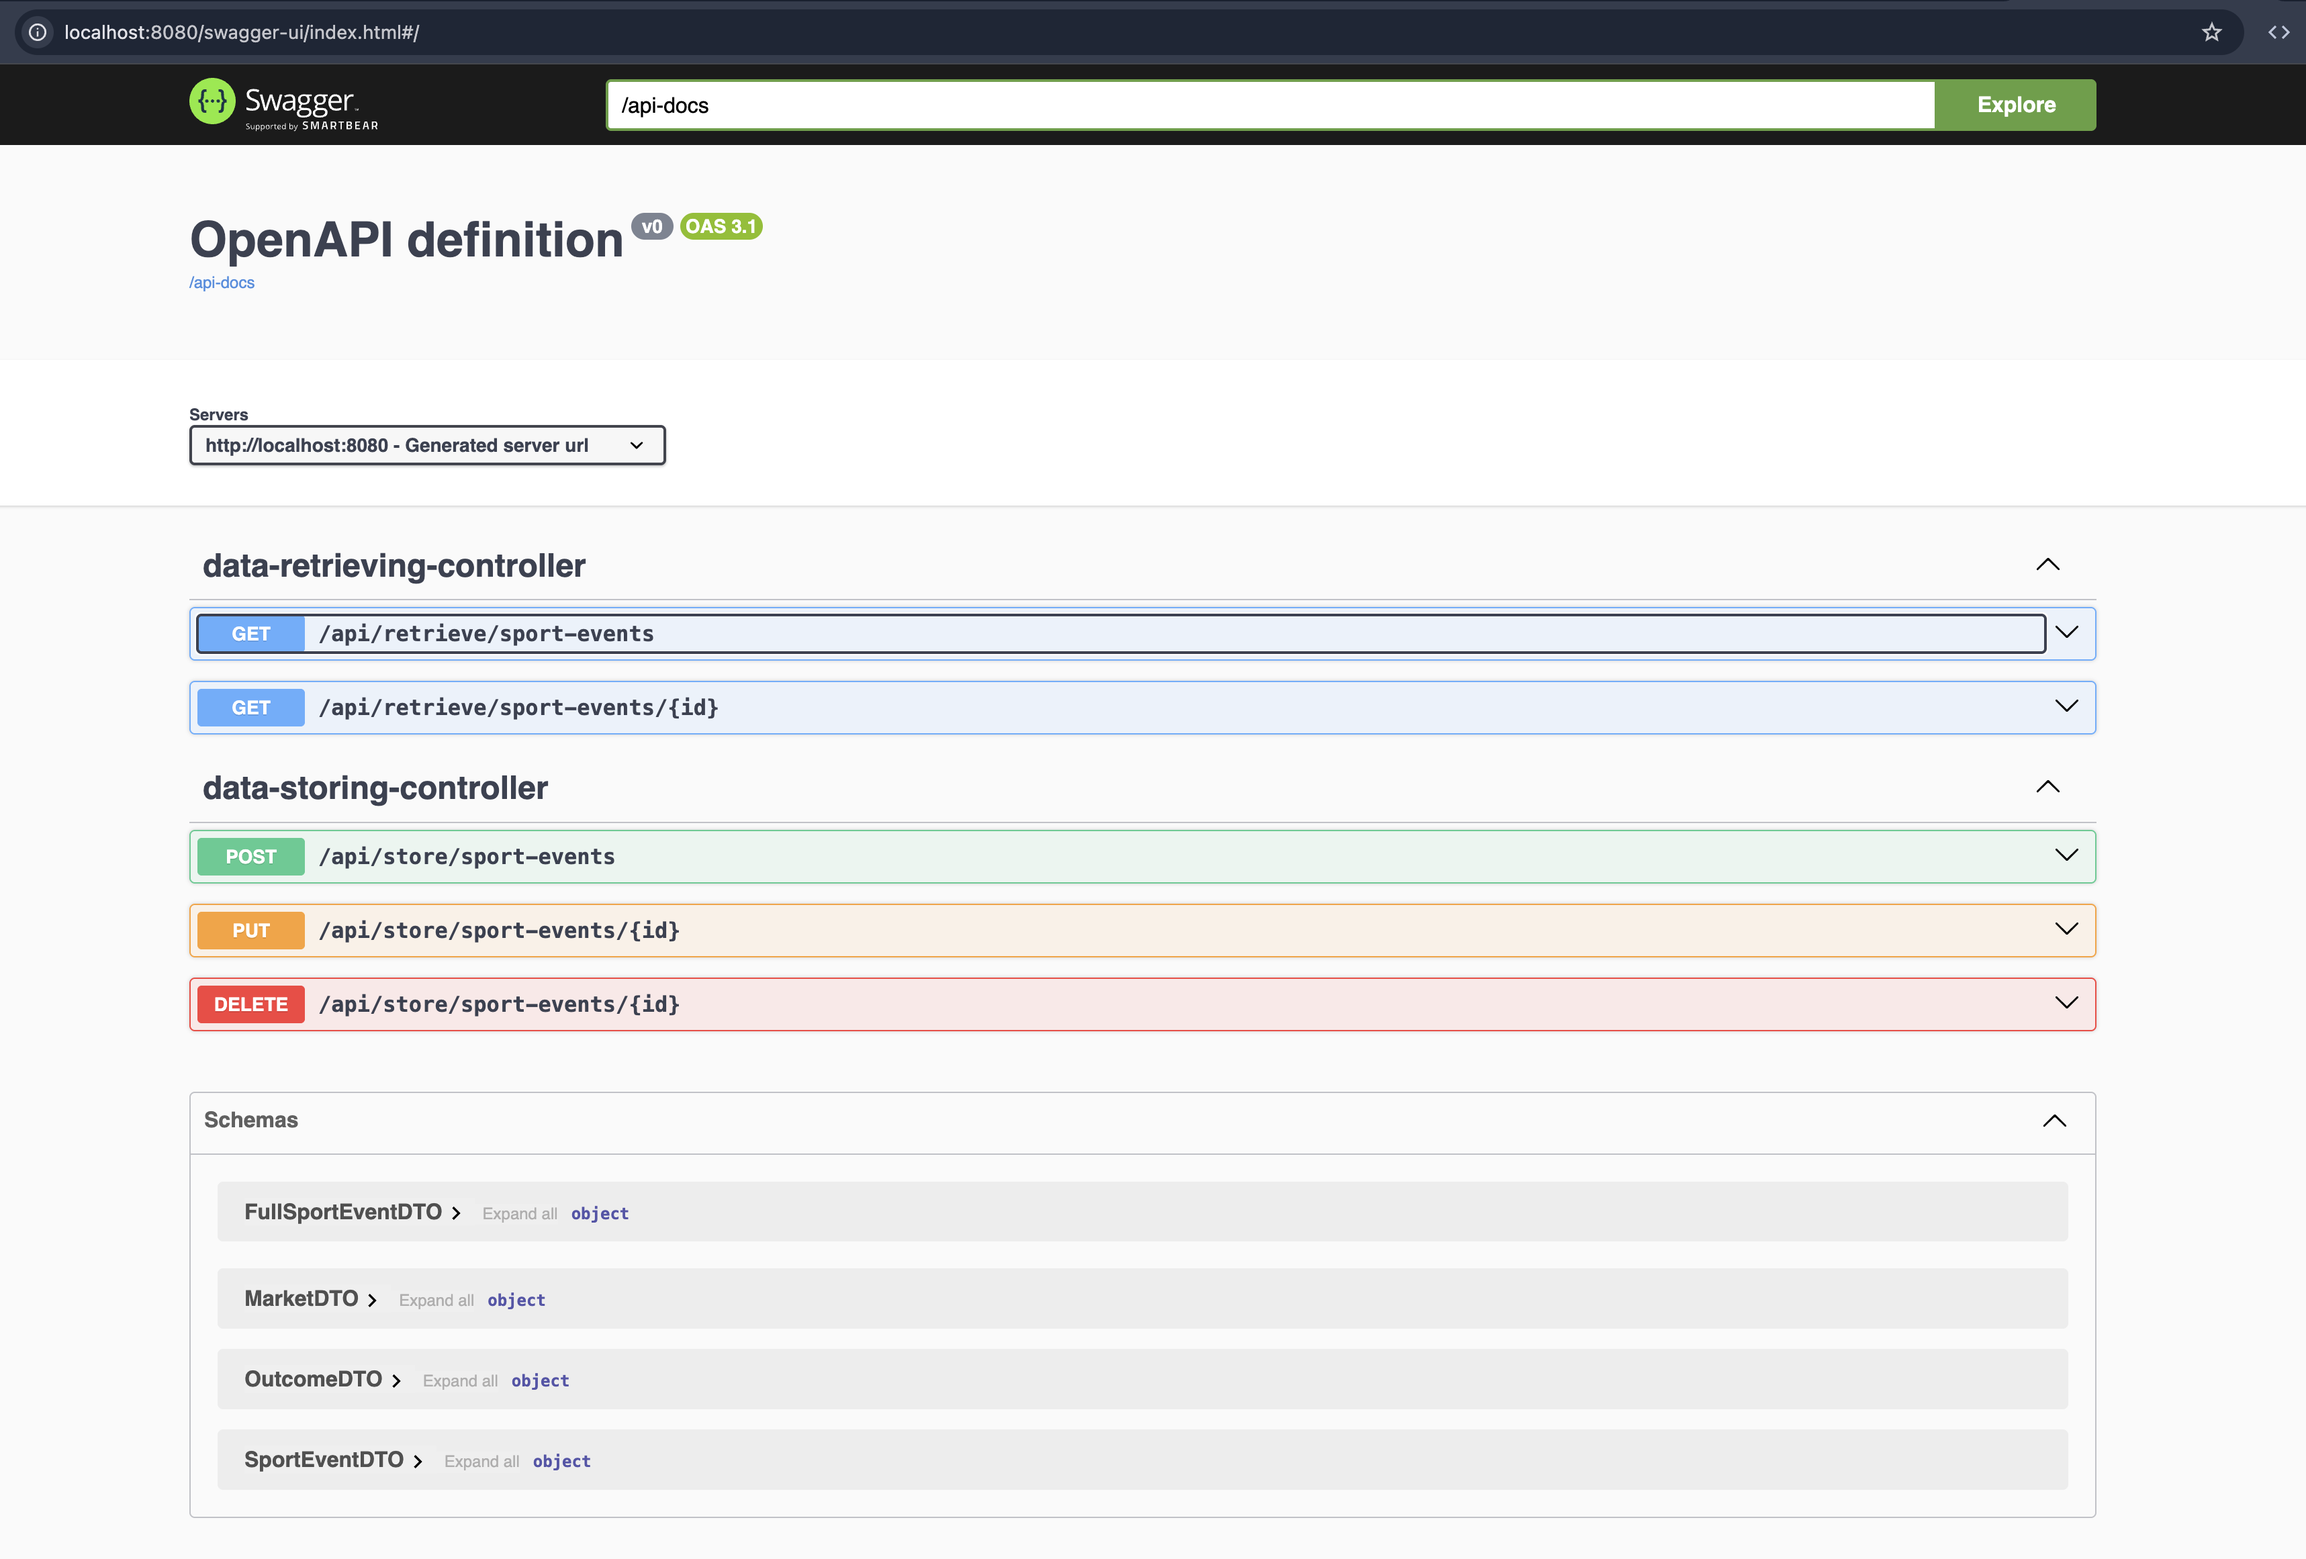
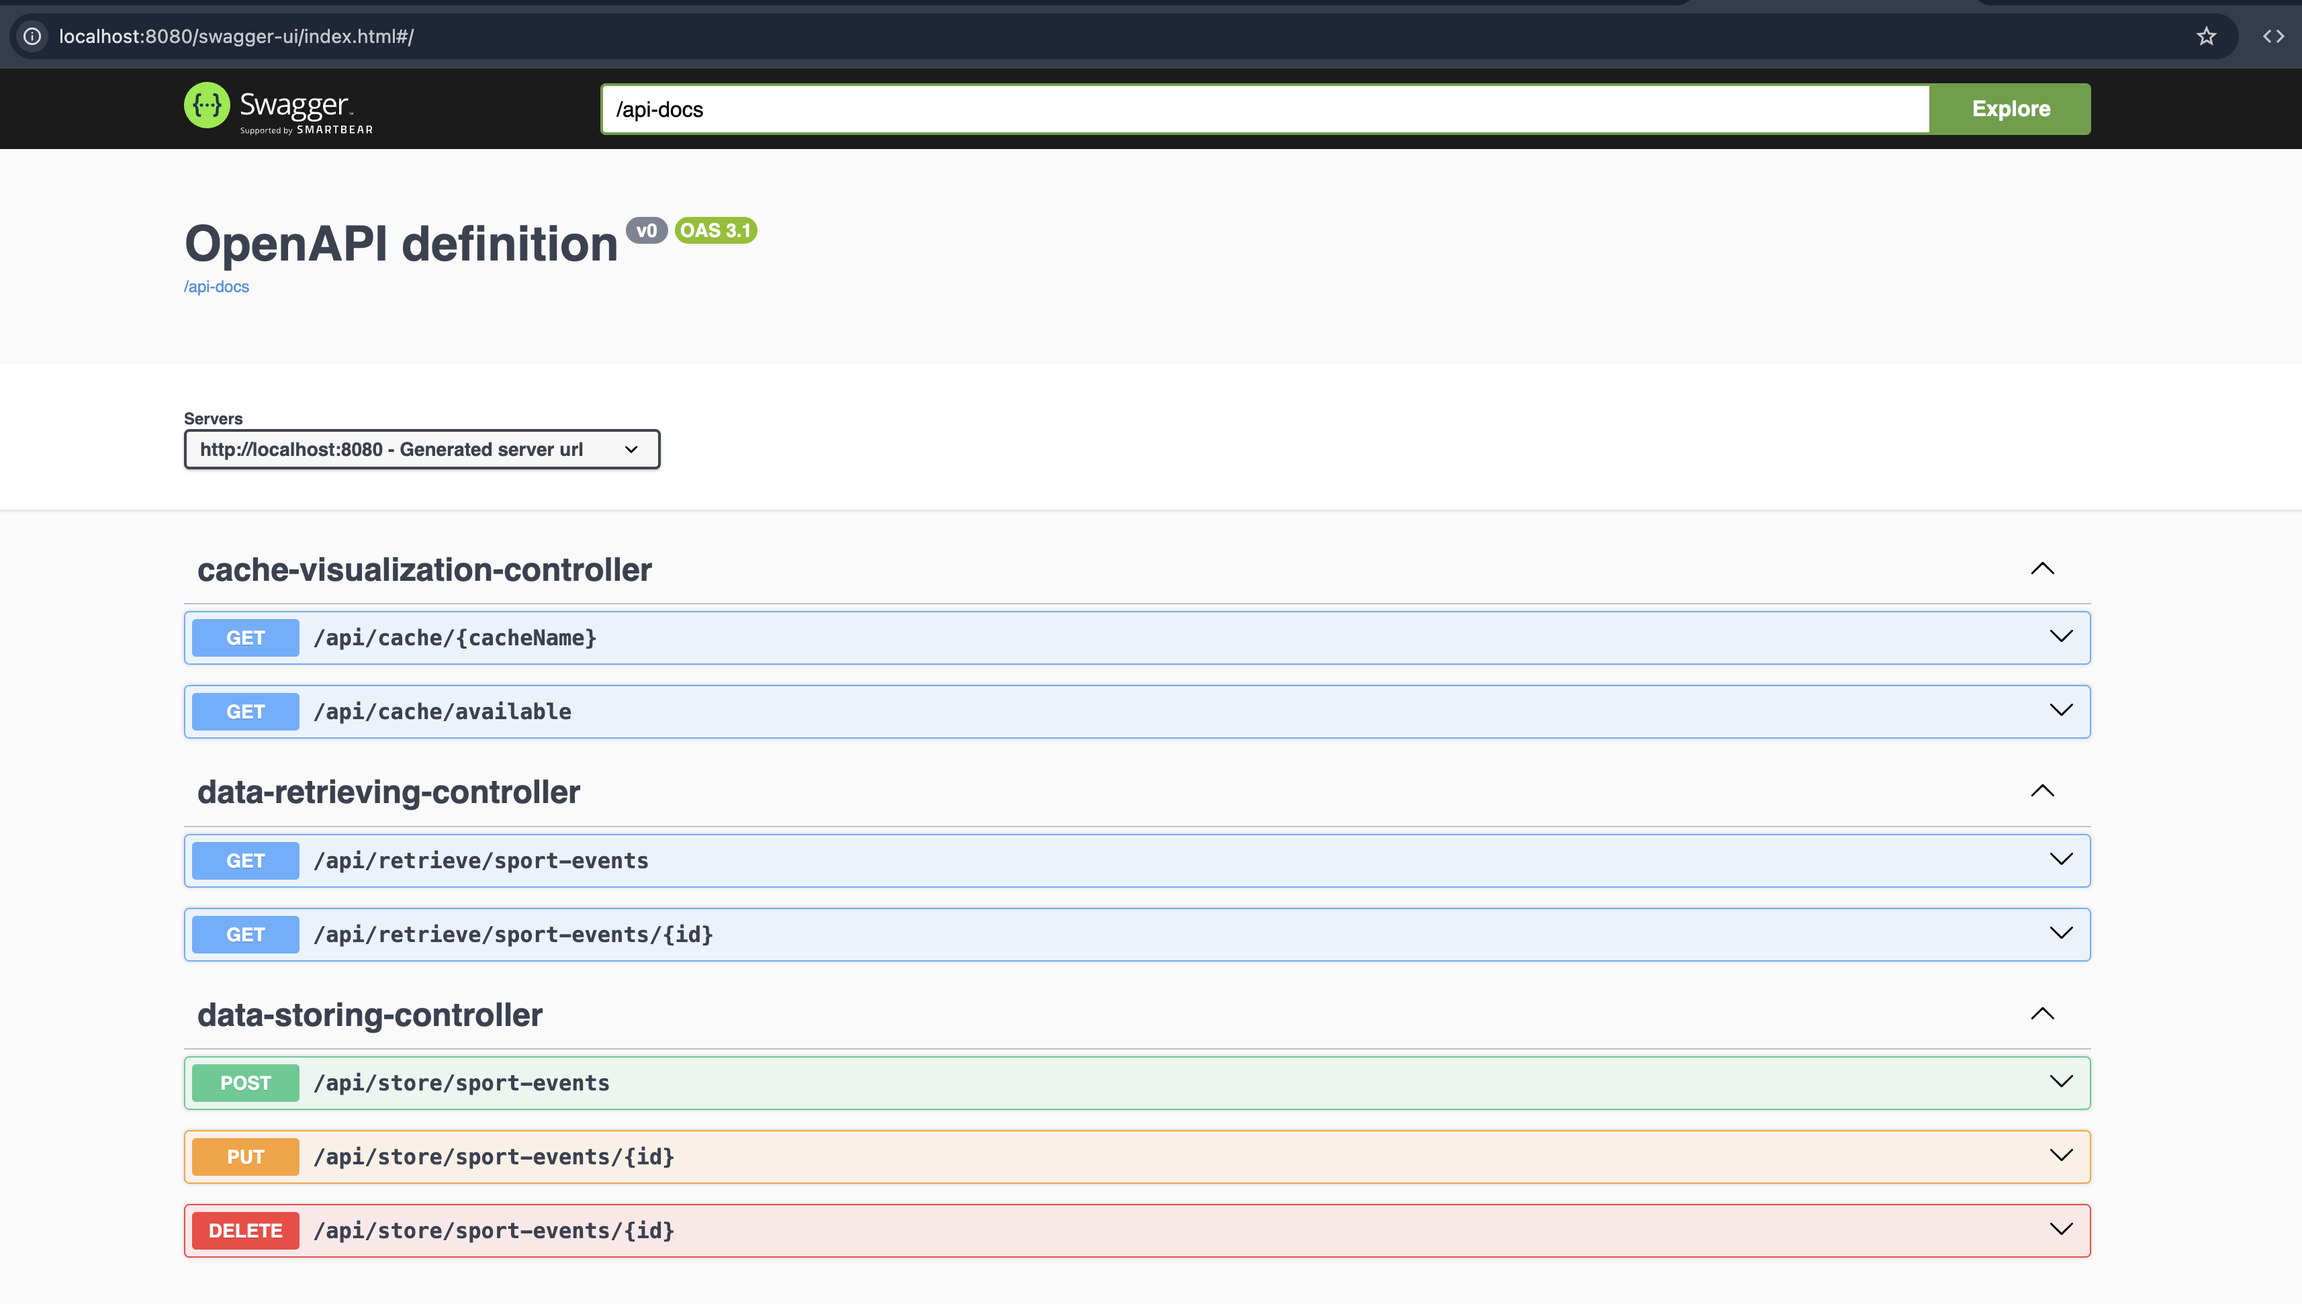
add cache visualizer

diff --git a/src/test/java/com/example/testtaskbv/DataStoringServiceTest.java b/src/test/java/com/example/testtaskbv/DataStoringServiceTest.java
@@ -29,9 +29,6 @@ class DataStoringServiceTest {
     @Mock
     private SportEventMapper sportEventMapper;
 
-    @Mock
-    private DataRetrievingService dataRetrievingService;
-
     @InjectMocks
     private DataStoringService dataStoringService;
 
@@ -76,7 +73,6 @@ class DataStoringServiceTest {
         verify(sportEventMapper).toFullSportEventDTOInverse(fullSportEventDTO);
         verify(sportEventRepository).save(sportEvent);
         verify(sportEventMapper).toFullSportEventDTO(sportEvent);
-//        verify(dataRetrievingService).evictNonSettledEventsCache();
     }
 
     @Test
@@ -96,11 +92,8 @@ class DataStoringServiceTest {
         assertEquals(fullSportEventDTO, result);
         verify(sportEventMapper).toFullSportEventDTOInverse(fullSportEventDTO);
         verify(sportEventRepository).findById(id);
-//        verify(sportEventMapper).updateSportEventFromSportEvent(updatedSportEvent, sportEvent);
         verify(sportEventRepository).save(sportEvent);
         verify(sportEventMapper).toFullSportEventDTO(sportEvent);
-//        verify(dataRetrievingService).evictSportEventCache(id);
-//        verify(dataRetrievingService).evictNonSettledEventsCache();
     }
 
     @Test
@@ -114,7 +107,6 @@ class DataStoringServiceTest {
         });
         assertEquals("Sport Event not found: " + id, exception.getMessage());
         verify(sportEventRepository).findById(id);
-//        verify(sportEventMapper, never()).updateSportEventFromSportEvent(any(), any());
         verify(sportEventRepository, never()).save(any());
     }
 
@@ -127,8 +119,6 @@ class DataStoringServiceTest {
 
         verify(sportEventRepository).findById(id);
         verify(sportEventRepository).delete(sportEvent);
-//        verify(dataRetrievingService).evictSportEventCache(id);
-//        verify(dataRetrievingService).evictNonSettledEventsCache();
     }
 
     @Test

diff --git a/src/main/java/com/example/testtaskbv/service/CacheVisualizationService.java b/src/main/java/com/example/testtaskbv/service/CacheVisualizationService.java
@@ -1,0 +1,49 @@
+package com.example.testtaskbv.service;
+
+import lombok.AllArgsConstructor;
+import lombok.extern.slf4j.Slf4j;
+import org.springframework.cache.Cache;
+import org.springframework.cache.CacheManager;
+import org.springframework.stereotype.Service;
+
+import java.util.ArrayList;
+import java.util.HashMap;
+import java.util.List;
+import java.util.Map;
+import java.util.concurrent.ConcurrentMap;
+
+@Slf4j
+@Service
+@AllArgsConstructor
+public class CacheVisualizationService {
+
+    private final CacheManager cacheManager;
+
+    public Map<String, Object> getCacheContents(String cacheName) {
+        Cache cache = cacheManager.getCache(cacheName);
+        if (cache == null) {
+            throw new IllegalArgumentException("Cache not found: " + cacheName);
+        }
+
+        Map<String, Object> cacheContents = new HashMap<>();
+        log.info("Retrieving contents of cache: {}", cacheName);
+        cacheContents.put("cacheName", cacheName);
+        cacheContents.put("contents", getCacheEntries(cache));
+        return cacheContents;
+    }
+
+    public List<String> getAvailableCaches() {
+        return new ArrayList<>(cacheManager.getCacheNames());
+    }
+
+    private Map<Object, Object> getCacheEntries(Cache cache) {
+        Map<Object, Object> entries = new HashMap<>();
+        if (cache.getNativeCache() instanceof ConcurrentMap<?, ?>) {
+            ConcurrentMap<?, ?> nativeCache = (ConcurrentMap<?, ?>) cache.getNativeCache();
+            nativeCache.forEach((key, value) -> entries.put(key, value));
+        } else {
+            log.warn("Cache provider does not support direct entry retrieval: {}", cache.getClass());
+        }
+        return entries;
+    }
+}

diff --git a/src/main/java/com/example/testtaskbv/controller/CacheVisualizationController.java b/src/main/java/com/example/testtaskbv/controller/CacheVisualizationController.java
@@ -1,0 +1,32 @@
+package com.example.testtaskbv.controller;
+
+import com.example.testtaskbv.service.CacheVisualizationService;
+import lombok.AllArgsConstructor;
+import org.springframework.http.ResponseEntity;
+import org.springframework.web.bind.annotation.GetMapping;
+import org.springframework.web.bind.annotation.PathVariable;
+import org.springframework.web.bind.annotation.RequestMapping;
+import org.springframework.web.bind.annotation.RestController;
+
+import java.util.List;
+import java.util.Map;
+
+@RestController
+@RequestMapping("/api/cache")
+@AllArgsConstructor
+public class CacheVisualizationController {
+
+    private final CacheVisualizationService cacheVisualizationService;
+
+    @GetMapping("/available")
+    public ResponseEntity<List<String>> getAvailableCaches() {
+        List<String> caches = cacheVisualizationService.getAvailableCaches();
+        return ResponseEntity.ok(caches);
+    }
+
+    @GetMapping("/{cacheName}")
+    public ResponseEntity<Map<String, Object>> getCacheContents(@PathVariable String cacheName) {
+        Map<String, Object> cacheContents = cacheVisualizationService.getCacheContents(cacheName);
+        return ResponseEntity.ok(cacheContents);
+    }
+}

diff --git a/readme.md b/readme.md
@@ -8,7 +8,7 @@ I’m unclear about the requirement: `Design the services with the assumption th
 docker-compose up
 ```
 
-[Swagger](http://localhost:8080/swagger-ui/index.html#/)
+[Swagger](http://localhost:8080/swagger-ui/index.html#/) Created 2 extra endpoint for visualize cache state
 ![swagger_view.png](media/swagger_view.png)
 
 [Full health](http://localhost:8080/actuator/health)
